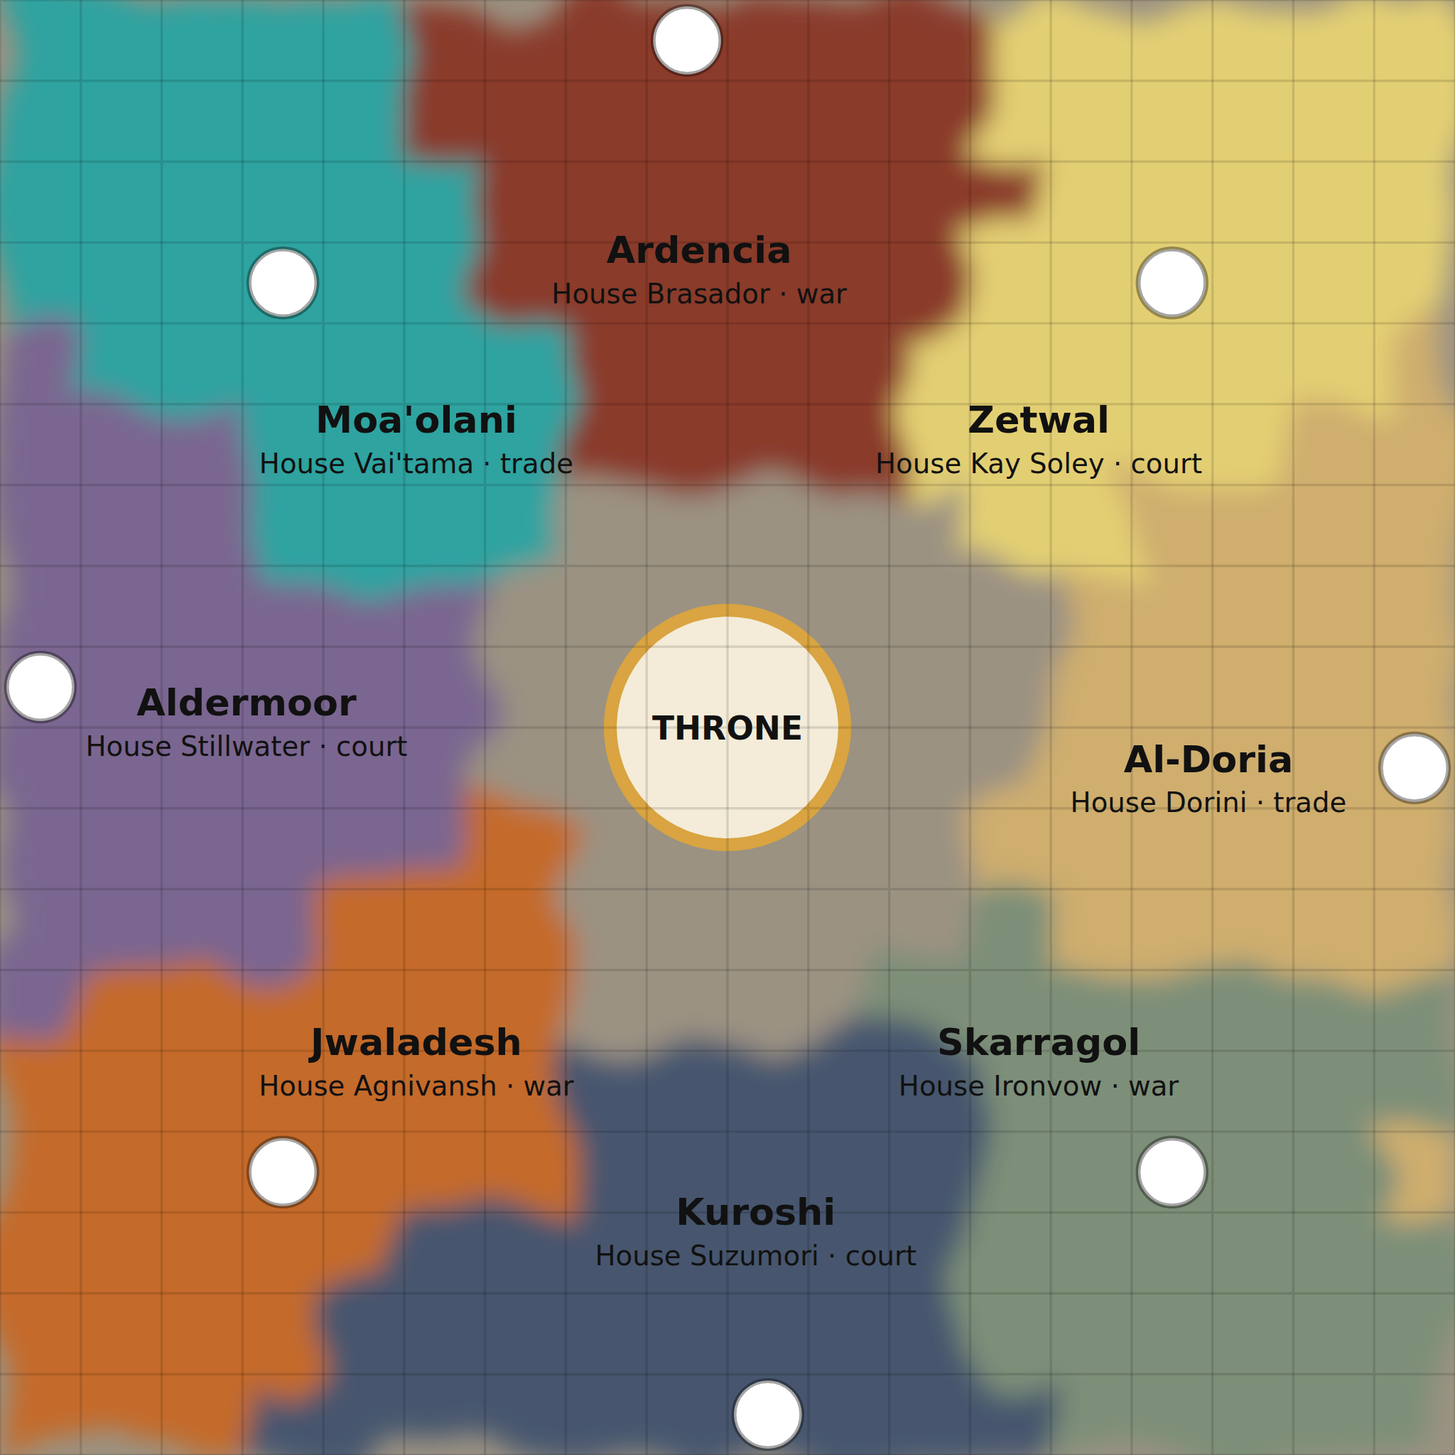
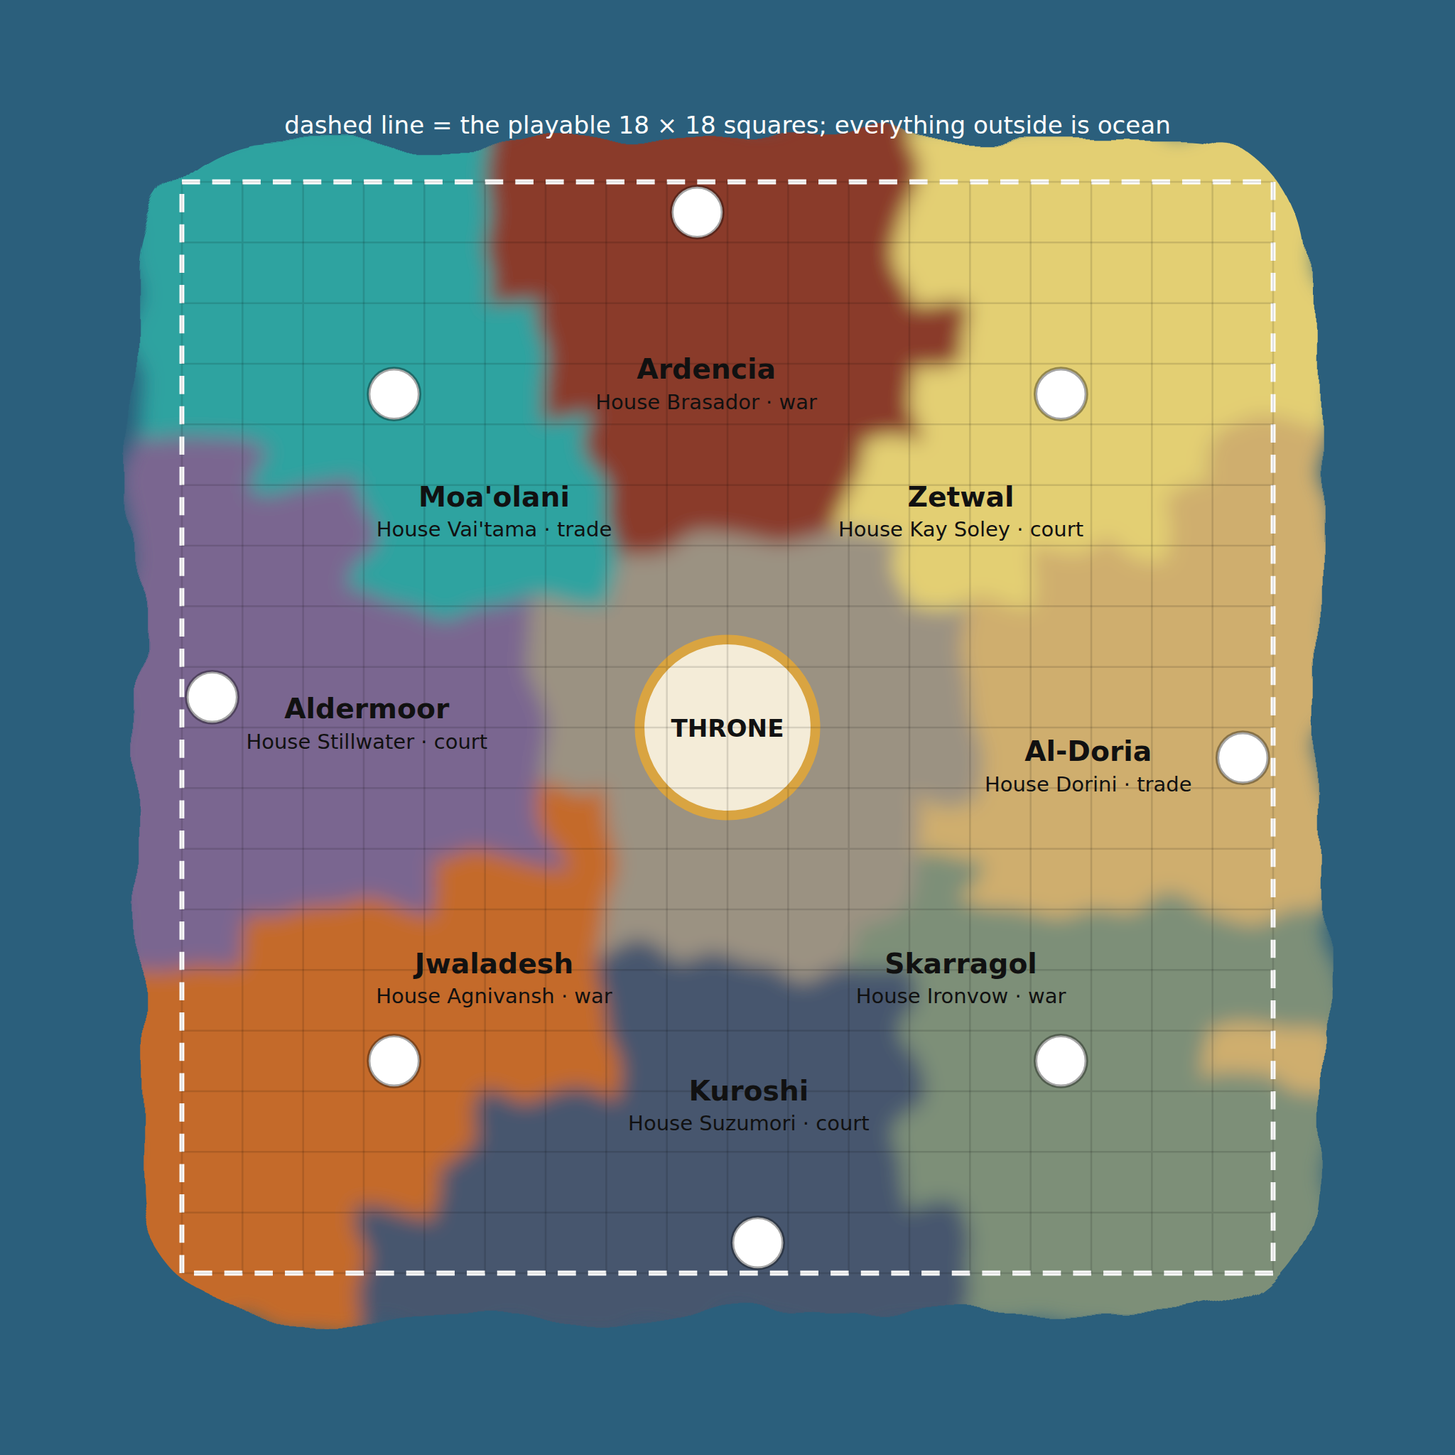
Board art can be an island with its own ocean margin
The painted board ended exactly at the edge of the playable squares, so
edge buildings were cut off. A painting can now include open ocean
around the board: BOARD_ART.imageMargin says how many squares of sea
it carries on each side. The 2.5D view draws it larger than the board,
fading its edges into the sea; the overview map shows a strip of coast.
The current painting has no margin (imageMargin 0) and looks as before.

The board guide is now an island: the 18x18 squares fill the middle
75% with ocean 3 squares wide around them, and the art guide's board
section and prompts describe that layout (checked by rendering the guide
itself as the board: every seat lands on its dot).

Claude-Session: https://claude.ai/code/session_01YAnSxFxcnPAhQ8NFJcHZDX

diff --git a/src/ui/play/Stage.tsx b/src/ui/play/Stage.tsx
@@ -34,6 +34,7 @@ export function Stage({ game, motion, lit, path, arrows, active, onToken, childr
   const houses = Object.values(game.content.houses);
   const size = BOARD_SIZE * CELL;
   const art = BOARD_ART.image;
+  const artMargin = art ? BOARD_ART.imageMargin : 0;
 
   // Pawns sharing a square fan out a little.
   const at = new Map<string, number[]>();
@@ -47,7 +48,11 @@ export function Stage({ game, motion, lit, path, arrows, active, onToken, childr
     <div className={`stage2 ${arrows.length ? 'stepping' : ''}`}>
       <div className="cam" ref={el => motion.registerCamera(el)}>
         <div className="sea" style={{ left: -MARGIN * CELL, top: -MARGIN * CELL, width: size + 2 * MARGIN * CELL, height: size + 2 * MARGIN * CELL }} />
-        <div className={`plane2 ${art ? 'art' : ''}`} style={{ width: size, height: size, backgroundImage: `url("${art ?? terrainUrl(houses)}")` }}>
+        {art && artMargin > 0 && (
+          <div className="art-sea" style={{ left: -artMargin * CELL, top: -artMargin * CELL, width: size + 2 * artMargin * CELL, height: size + 2 * artMargin * CELL, backgroundImage: `url("${art}")` }} />
+        )}
+        <div className={`plane2 ${art ? 'art' : ''} ${artMargin ? 'margin' : ''}`}
+          style={{ width: size, height: size, backgroundImage: art && artMargin ? 'none' : `url("${art ?? terrainUrl(houses)}")` }}>
           <div className="throne2" style={{ left: THRONE[0].x * CELL, top: THRONE[0].y * CELL, width: CELL * 2, height: CELL * 2, background: art ? 'transparent' : BOARD_ART.throne, borderColor: BOARD_ART.throneEdge }}>{art ? '' : '♛'}</div>
           {houses.map(h => (
             <div key={h.id} className="tile2" style={{ left: h.home.x * CELL, top: h.home.y * CELL, width: CELL, height: CELL,

diff --git a/src/ui/Board.tsx b/src/ui/Board.tsx
@@ -23,6 +23,8 @@ function BoardView({ game, highlights, onPick, focus, zoom }: Props) {
   const size = BOARD_SIZE * C;
   const tiles = Object.values(game.content.houses);
   const art = BOARD_ART.image;
+  // With a painting that includes ocean, show a little of the coast around the board.
+  const view = art ? Math.min(BOARD_ART.imageMargin, 1.2) * C : 0;
   const living = s.players.filter(p => p.pos);
   const byKey = new Map<string, number[]>();
   for (const p of living) {
@@ -32,7 +34,7 @@ function BoardView({ game, highlights, onPick, focus, zoom }: Props) {
 
   return (
     <div className={`board-wrap ${zoom ? 'zoom' : ''}`}>
-      <svg className="board" viewBox={`0 0 ${size} ${size}`} role="img" aria-label="Game board">
+      <svg className="board" viewBox={`${-view} ${-view} ${size + 2 * view} ${size + 2 * view}`} role="img" aria-label="Game board">
         <Terrain houses={tiles} />
         {art && (
           <>

diff --git a/src/index.css b/src/index.css
@@ -499,3 +499,11 @@ button:disabled { cursor: default; }
 @media (orientation: landscape) and (max-height: 600px) {
   .round2 { left: auto; top: 0; flex-direction: row; gap: 4px; box-shadow: 0 6px 10px -4px #0009; }
 }
+/* A painting with its own ocean: drawn larger than the board, fading into the sea at its edges. */
+.art-sea {
+  position: absolute; background-size: 100% 100%; pointer-events: none;
+  --fade: linear-gradient(to right, transparent, #000 7%, #000 93%, transparent), linear-gradient(to bottom, transparent, #000 7%, #000 93%, transparent);
+  -webkit-mask-image: var(--fade); -webkit-mask-composite: source-in; mask-image: var(--fade); mask-composite: intersect;
+}
+.plane2.margin { box-shadow: none; border-radius: 0; }
+.plane2.margin::before { border-radius: 0; }

diff --git a/src/ui/Terrain.tsx b/src/ui/Terrain.tsx
@@ -7,7 +7,8 @@ import { BOARD_ART } from '../assets.config';
 // The overhead map's ground: the same picture the 2.5D view uses (the painted board, else drawn terrain).
 function TerrainView({ houses }: { houses: HouseDef[] }) {
   const size = BOARD_SIZE * UNIT;
-  return <image href={BOARD_ART.image ?? terrainUrl(houses)} x={0} y={0} width={size} height={size} preserveAspectRatio="none" />;
+  const m = BOARD_ART.image ? BOARD_ART.imageMargin * UNIT : 0;
+  return <image href={BOARD_ART.image ?? terrainUrl(houses)} x={-m} y={-m} width={size + 2 * m} height={size + 2 * m} preserveAspectRatio="none" />;
 }
 
 export const Terrain = memo(TerrainView);

diff --git a/src/assets.config.ts b/src/assets.config.ts
@@ -67,6 +67,8 @@ export const TERRAIN_ART: Record<HouseId | 'heartland', TerrainArt> = {
 export const BOARD_ART = {
   // The painted board (docs/art/ART-GUIDE.md §3). Without it, the drawn homeland terrain is used.
   image: '/art/board.webp' as string | undefined,
+  // Squares of ocean the painting includes on each side of the 18 × 18 board (0 = the image is just the board).
+  imageMargin: 0,
   light: '#2a2026',
   dark: '#251c21',
   grid: 'rgba(0,0,0,.28)',

diff --git a/docs/art/ART-GUIDE.md b/docs/art/ART-GUIDE.md
@@ -106,15 +106,20 @@ In Midjourney, put the avoid list in `--no text, letters, numbers, watermark, si
   painting has **no grid and no markers**.
 - Because the app tilts it, the painting must be a **straight top-down view**: no perspective, no horizon,
   no sides of buildings leaning outward.
+- **The painting is an island in the ocean.** The 18×18 playable squares fill the **middle 75%** of the
+  image; the outer band (3 squares wide on every side) is open sea. The game lines the island up with the
+  grid and lets the painted ocean fade into its own sea, so nothing at the edge of the board gets cut off.
 
 | File | Size | Format | Background |
 |---|---|---|---|
-| `board.png` | **4096 × 4096** (2048 × 2048 at the very least) | PNG | Opaque; the land fills the whole square. |
+| `board.png` | **4096 × 4096** (2048 × 2048 at the very least) | PNG | Opaque: an island filling the middle 75%, ocean around it. |
 
 ### The layout (must match the rules)
 Attach **`docs/art/board-guide.png`** to the prompt.
+- **Blue outer band:** open ocean. The coastline runs just outside the playable squares, so every square is
+  on land.
 - **Coloured areas:** each is one homeland. Their sizes and soft borders match the game's own map.
-- **The ring in the middle:** Elodie's Throne. It covers the centre 2×2 squares, about the middle 11% of
+- **The ring in the middle:** Elodie's Throne. It covers the centre 2×2 squares, about the middle 8% of
   the image.
 - **The 8 white dots:** each house's **seat**, its owned tile. These positions are rules, so the painting
   has to put each seat on its dot. **`docs/art/board-guide-labelled.png`** shows which is which, for you,
@@ -122,14 +127,17 @@ Attach **`docs/art/board-guide.png`** to the prompt.
 
 | Seat | House (tile) | Where | Across, down |
 |---|---|---|---|
-| Ardencia | Brasador (War) | Top edge, middle | 47%, 3% |
-| Zetwal | Kay Soley (Court) | Upper right | 81%, 19% |
-| Al-Doria | Dorini (Trade) | Right edge, middle | 97%, 53% |
-| Skarragol | Ironvow (War) | Lower right | 81%, 81% |
-| Kuroshi | Suzumori (Court) | Bottom edge, middle | 53%, 97% |
-| Jwaladesh | Agnivansh (War) | Lower left | 19%, 81% |
-| Aldermoor | Stillwater (Court) | Left edge, middle | 3%, 47% |
-| Moa'olani | Vai'tama (Trade) | Upper left | 19%, 19% |
+| Ardencia | Brasador (War) | North coast, middle | 48%, 15% |
+| Zetwal | Kay Soley (Court) | Upper right | 73%, 27% |
+| Al-Doria | Dorini (Trade) | East coast, middle | 85%, 52% |
+| Skarragol | Ironvow (War) | Lower right | 73%, 73% |
+| Kuroshi | Suzumori (Court) | South coast, middle | 52%, 85% |
+| Jwaladesh | Agnivansh (War) | Lower left | 27%, 73% |
+| Aldermoor | Stillwater (Court) | West coast, middle | 15%, 48% |
+| Moa'olani | Vai'tama (Trade) | Upper left | 27%, 27% |
+
+The four middle-of-the-edge seats sit right on the coast, which suits them: Ardencia's fortress on its
+cliffs, Al-Doria's harbour, Kuroshi's castle on a rocky point and Aldermoor's keep above the shore.
 
 If a seat lands within about half a square of its dot, I can nudge the image to fit. Further off than that,
 repaint that spot.
@@ -145,7 +153,7 @@ repaint that spot.
   colourful painted roofs with lacy carved trim (Haitian gingerbread houses). At the seat, a white-and-gold
   temple court to Elodie with sun-ray paving.
 - **Al-Doria, Dorini (right):** where sea trade meets the desert. Golden dunes inland, a white-domed
-  harbour city on the right edge, striped bazaar awnings, date palms, caravan tracks. At the seat, the
+  harbour city on the east coast, striped bazaar awnings, date palms, caravan tracks. At the seat, the
   courtyard of a grand caravanserai.
 - **Skarragol, Ironvow (lower right):** cold fjords cutting into grassy steppe. Turf-roofed longhouses
   beside round felt yurts, herds of horses, grey-green grass. At the seat, a timber-and-stone hall with a
@@ -165,35 +173,34 @@ repaint that spot.
 1. **Each land must be recognisable at a glance**, by colour *and* texture, even on the small overhead map.
 2. **Borders are natural and soft:** rivers, ridges, forest edges and changes of grass. Never painted
    lines.
-3. **Walkable everywhere:** water inside the board stays shallow (lagoons, tarns, rivers), and there are
-   no large lakes or open sea inside the square.
+3. **Every square inside the coastline is land:** water there stays small and shallow (lagoons, the tarn,
+   rivers). Open sea, fjords and harbours belong in the outer ocean band.
 4. **Calm, medium detail:** lots of quiet ground for pawns to stand on. No busy high-contrast clutter
    across the whole map.
 5. **Keep the centre throne ring and each seat spot open:** a plaza or courtyard, so the markers sit
    cleanly.
-6. **The land runs to all four edges.** The outermost sliver may soften into sea mist, because the app
-   puts a misty sea around the board.
+6. **Ocean all the way to the image edges,** deep and calm, so it blends into the game's sea.
 7. **Nothing else on the map:** no people, animals larger than tiny herds, clouds over the land, text or
    compass rose.
 
 ### Prompt for ChatGPT (recommended): attach `board-guide.png`
 ```
-Paint a square, straight top-down (orthographic, no perspective, no horizon) fantasy game-board map of one continent made of eight homelands around a central plaza.
+Paint a square, straight top-down (orthographic, no perspective, no horizon) fantasy game-board map: one roughly square island continent made of eight homelands around a central plaza, surrounded on every side by open ocean.
 
-Use the attached guide image ONLY for layout: each flat coloured area is one homeland — keep every homeland in the same place and about the same size and shape, with soft, natural, wandering borders (rivers, ridges, forest edges), never drawn lines. Do not copy the guide's flat colours; repaint each area as real terrain. The pale ring in the centre is Elodie's Throne: paint a round plaza of pale marble inlaid with gold filigree rings, with eight old paved roads leading out toward each homeland. Each white dot marks a house's seat: paint an open courtyard or plaza exactly on each dot, with that land's signature building right beside it.
+Use the attached guide image ONLY for layout. The blue band around the outside is open ocean: paint deep, calm sea all the way to the image edges. The coastline must follow the guide's coast closely — beaches, low cliffs and small coves are welcome, but the land must cover everything the guide shows as land; never let the sea cut into it. Each flat coloured area is one homeland — keep every homeland in the same place and about the same size and shape, with soft, natural, wandering borders (rivers, ridges, forest edges), never drawn lines. Do not copy the guide's flat colours; repaint each area as real terrain. The pale ring in the centre is Elodie's Throne: paint a round plaza of pale marble inlaid with gold filigree rings, with eight old paved roads leading out toward each homeland. Each white dot marks a house's seat: paint an open courtyard or plaza exactly on each dot, on dry land, with that land's signature building right beside it. Four dots sit on the coast; their buildings stand on the shore.
 
 Homelands (positions as on the guide):
-- Top (deep red area): Ardencia — scorched volcanic highlands, black basalt and rust-red rock, faint glowing lava seams, dry scrub and cork oaks; a walled hilltop fortress with terracotta roofs at its seat.
-- Upper right (yellow area): Zetwal — sun-bright coast, golden fields, palm and mango groves, colourful roofs with lacy carved trim; a white-and-gold sun temple court at its seat.
-- Right (tan area): Al-Doria — golden dunes meeting a white-domed harbour city on the right edge, striped bazaar awnings, date palms, caravan tracks; a grand caravanserai courtyard at its seat.
-- Lower right (grey-green area): Skarragol — cold fjords cutting into grassy steppe, turf-roofed longhouses beside round felt yurts, tiny horse herds; a timber-and-stone hall with a round horse paddock at its seat.
-- Bottom (slate-blue area): Kuroshi — fog-veiled coast, dark cedar forest, moss, terraced paddies, ribbons of mist; a castle compound with tiered curved roofs on a rocky point at its seat.
-- Lower left (orange area): Jwaladesh — ochre and saffron plains, red-sandstone fort-palaces, a stepwell, banyan trees and flame-orange flowering trees; a palace courtyard ringed with braziers at its seat.
-- Left (purple area): Aldermoor — fog-wrapped moorland, purple heather, dry-stone walls, hedgerows, alder trees; an old grey stone keep beside a dark, perfectly still tarn at its seat.
-- Upper left (turquoise area): Moa'olani — small green islands joined by white-sand shallows and turquoise lagoons, coral, outrigger canoes; a thatched meeting house on stilts at its seat.
+- North (deep red area): Ardencia — scorched volcanic highlands, black basalt and rust-red rock, faint glowing lava seams, dry scrub and cork oaks; a walled fortress with terracotta roofs on the north coast cliffs at its seat.
+- North-east (yellow area): Zetwal — sun-bright land, golden fields, palm and mango groves, colourful roofs with lacy carved trim; a white-and-gold sun temple court at its seat.
+- East (tan area): Al-Doria — golden dunes running down to a white-domed harbour city on the east coast, striped bazaar awnings, date palms, caravan tracks, ships in the harbour out at sea; a grand caravanserai courtyard on the shore at its seat.
+- South-east (grey-green area): Skarragol — grassy steppe with turf-roofed longhouses beside round felt yurts and tiny horse herds; fjords cut into the coast from the ocean but stay outside the guide's land; a timber-and-stone hall with a round horse paddock at its seat.
+- South (slate-blue area): Kuroshi — dark cedar forest, moss, terraced paddies, ribbons of mist; a castle compound with tiered curved roofs on a rocky point of the south coast at its seat.
+- South-west (orange area): Jwaladesh — ochre and saffron plains, red-sandstone fort-palaces, a stepwell, banyan trees and flame-orange flowering trees; a palace courtyard ringed with braziers at its seat.
+- West (purple area): Aldermoor — fog-wrapped moorland, purple heather, dry-stone walls, hedgerows, alder trees, a dark, perfectly still tarn; an old grey stone keep above the west shore at its seat.
+- North-west (turquoise area): Moa'olani — small green hills joined by white-sand flats and shallow turquoise lagoons, coral, outrigger canoes; a thatched meeting house on stilts at its seat.
 - Centre (grey-brown area): the Heartland — ancient ruins, olive and cypress scrub, wildflower meadows, in warm neutral stone colours.
 
-The land fills the whole square to all four edges; only the outermost sliver softens into drifting sea mist. All water inside is shallow. Keep the ground calm with medium detail and plenty of open space, so game pieces placed on top stay readable. Each homeland must be recognisable at a glance by its colour and texture. No people, no clouds over the land, no grid, no markers.
+Inside the coastline, water stays small and shallow (rivers, the tarn, lagoons). Keep the ground calm with medium detail and plenty of open space, so game pieces placed on top stay readable. Each homeland must be recognisable at a glance by its colour and texture. No people, no clouds over the land, no grid, no markers.
 
 Style: hand-painted fantasy atlas illustration, gouache and oil glazes over fine ink linework, subtle real gold-leaf accents, visible brushwork on warm paper grain, rich muted jewel tones, soft warm light from the upper left with cool soft shadows, gentle dusk glow, mythic and dignified, detailed up close but calm and readable from a distance. Overall value mid-dark and rich, never washed out.
 
@@ -202,14 +209,14 @@ Avoid: any text, letters, numbers, labels, map legends or compass roses; waterma
 
 ### Prompt for Midjourney (alternative): upload `board-guide.png` as an image prompt
 ```
-<guide image URL> top-down orthographic fantasy atlas map of a continent of eight homelands around a central round marble-and-gold throne plaza with eight paved roads radiating out; north: volcanic basalt highlands with glowing lava seams and a terracotta fortress; north-east: sun-bright coast, palm groves, colourful carved roofs and a white-gold sun temple; east: golden dunes and a white-domed harbour city; south-east: fjords cutting into grassy steppe with longhouses and felt yurts; south: fog-veiled cedar coast with a tiered-roof castle; south-west: ochre plains, red sandstone fort-palace and stepwell; west: purple heather moorland, stone walls, a grey keep by a still tarn; north-west: turquoise lagoons and small green islands with a stilted thatched hall; soft natural borders, land to every edge, calm medium detail, hand-painted gouache and oil glaze over ink linework, gold-leaf accents, warm paper grain, rich muted jewel tones, soft light from upper left --ar 1:1 --v 7 --style raw --iw 1.5 --no text, letters, labels, compass, grid, border, frame, people, perspective, horizon, 3d render, photo
+<guide image URL> top-down orthographic fantasy atlas map of a roughly square island continent filling the middle of the image, surrounded on all sides by deep calm ocean to the edges; eight homelands around a central round marble-and-gold throne plaza with eight paved roads radiating out; north: volcanic basalt highlands with glowing lava seams and a terracotta fortress on the coast cliffs; north-east: sun-bright fields, palm groves, colourful carved roofs and a white-gold sun temple; east: golden dunes and a white-domed harbour city on the coast; south-east: grassy steppe with longhouses and felt yurts; south: cedar forest and mist with a tiered-roof castle on a rocky point; south-west: ochre plains, red sandstone fort-palace and stepwell; west: purple heather moorland, stone walls, a grey keep by a still tarn above the shore; north-west: turquoise lagoons and green hills with a stilted thatched hall; soft natural borders, calm medium detail, hand-painted gouache and oil glaze over ink linework, gold-leaf accents, warm paper grain, rich muted jewel tones, soft light from upper left --ar 1:1 --v 7 --style raw --iw 1.5 --no text, letters, labels, compass, grid, border, frame, people, perspective, horizon, 3d render, photo
 ```
 Midjourney follows the layout loosely. Check the seats against the guide and fix misplaced ones with
 *Vary Region*.
 
 ### Refining it
-- **Something in the wrong place?** Select it and ask: *"Move the Al-Doria caravanserai courtyard to the
-  middle of the right edge, as on the guide."*
+- **Something in the wrong place?** Select it and ask: *"Move the Al-Doria caravanserai courtyard onto the
+  shore in the middle of the east coast, as on the guide."*
 - **Too busy?** Ask: *"Simplify the ground texture in this area into calmer open fields; keep the style."*
 - **Too dark or bright overall?** Ask: *"Same image, overall slightly brighter/darker, keep everything
   else."*
@@ -217,11 +224,11 @@ Midjourney follows the layout loosely. Check the seats against the guide and fix
 
 ### Check before sending
 - [ ] Seen from straight above, with no perspective.
-- [ ] The throne plaza is centred, about 11% of the width across.
+- [ ] The throne plaza is centred, about 8% of the width across.
 - [ ] Each of the 8 seats sits on its dot, within half a square.
 - [ ] All 8 lands are easy to tell apart on a thumbnail.
 - [ ] There's no text, grid, frame or people.
-- [ ] The land reaches every edge.
+- [ ] The island fills the middle, matching the guide's coast, with ocean all the way to every edge.
 
 ### Plan B, if one painting won't follow the layout
 Paint each land as a separate **seamless top-down texture** and I'll blend them into the game's exact
